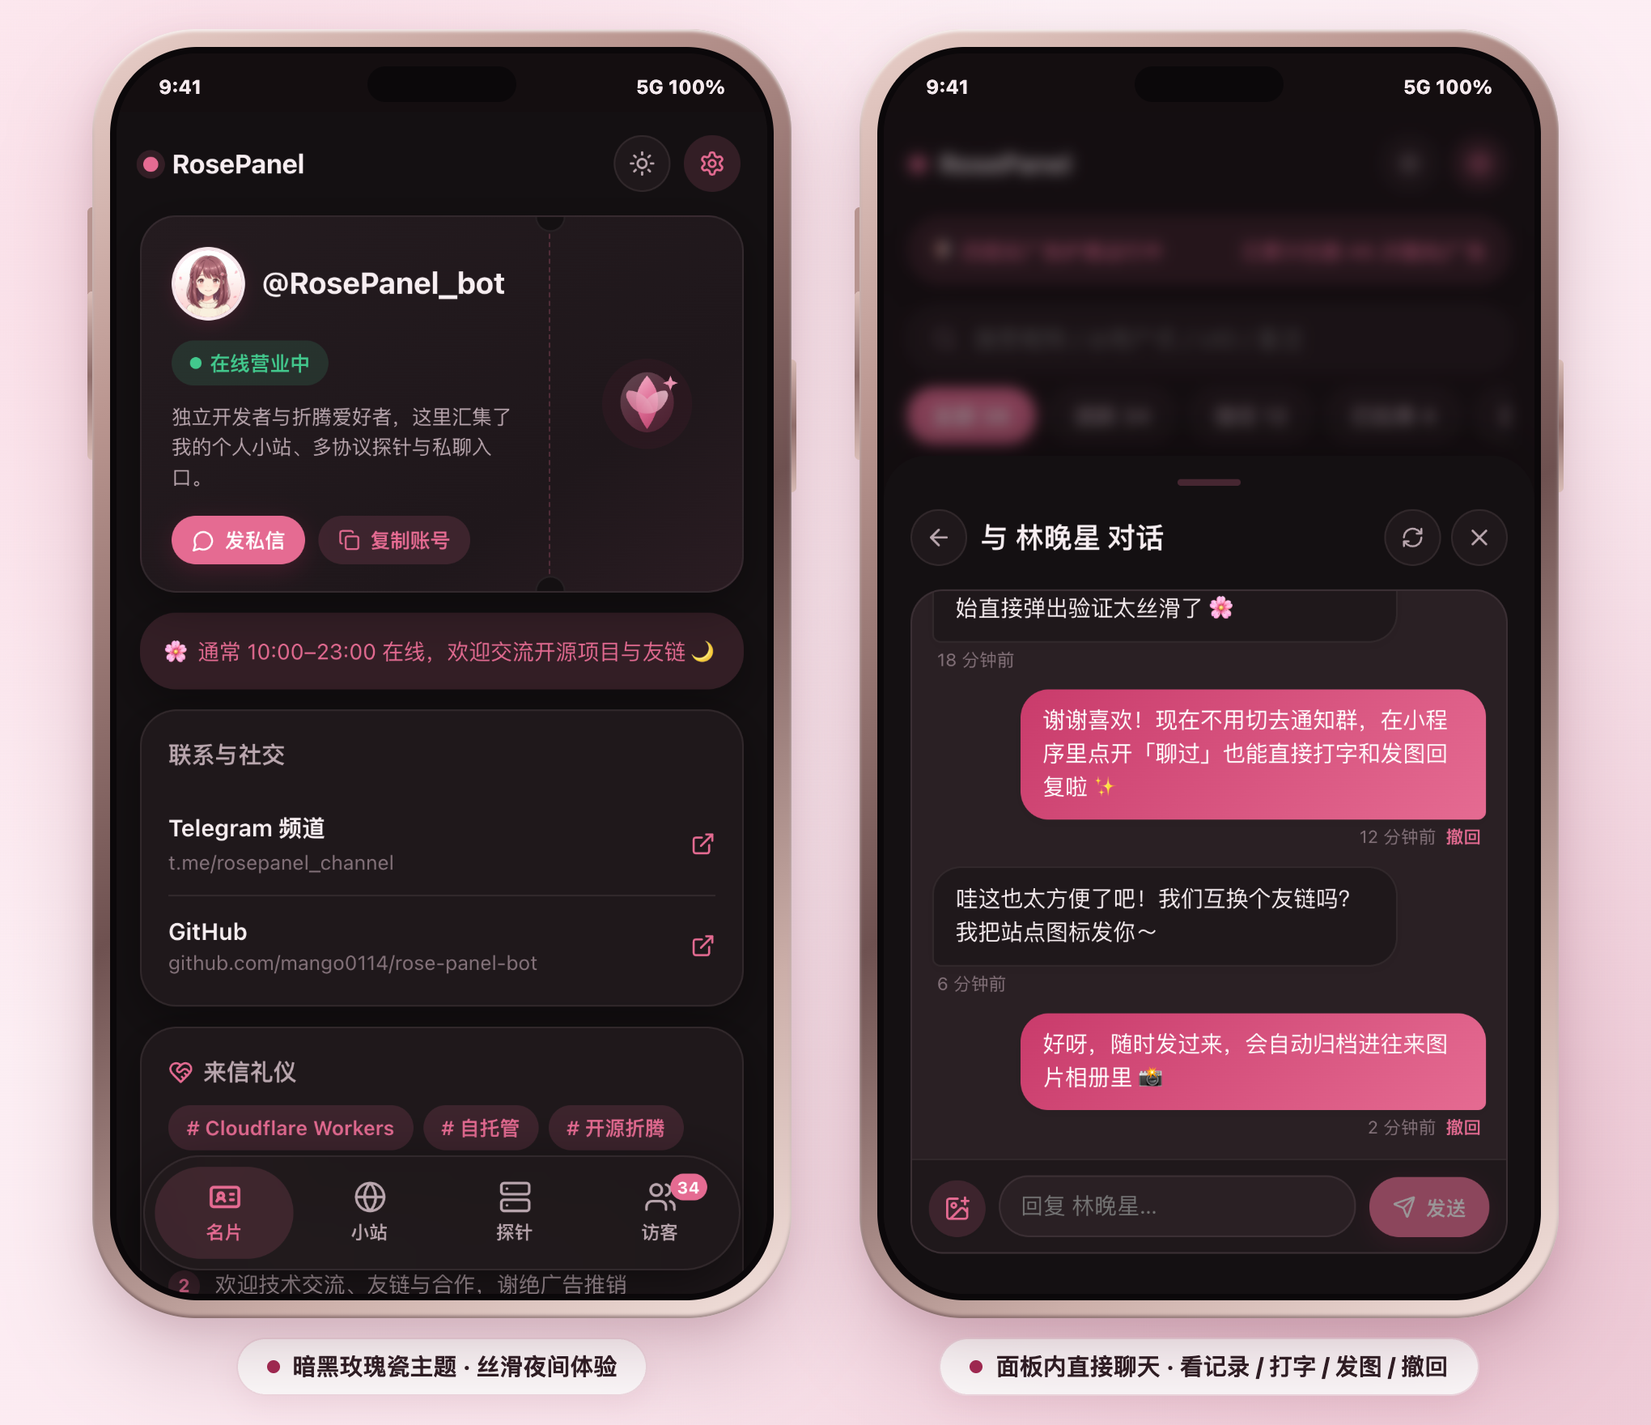
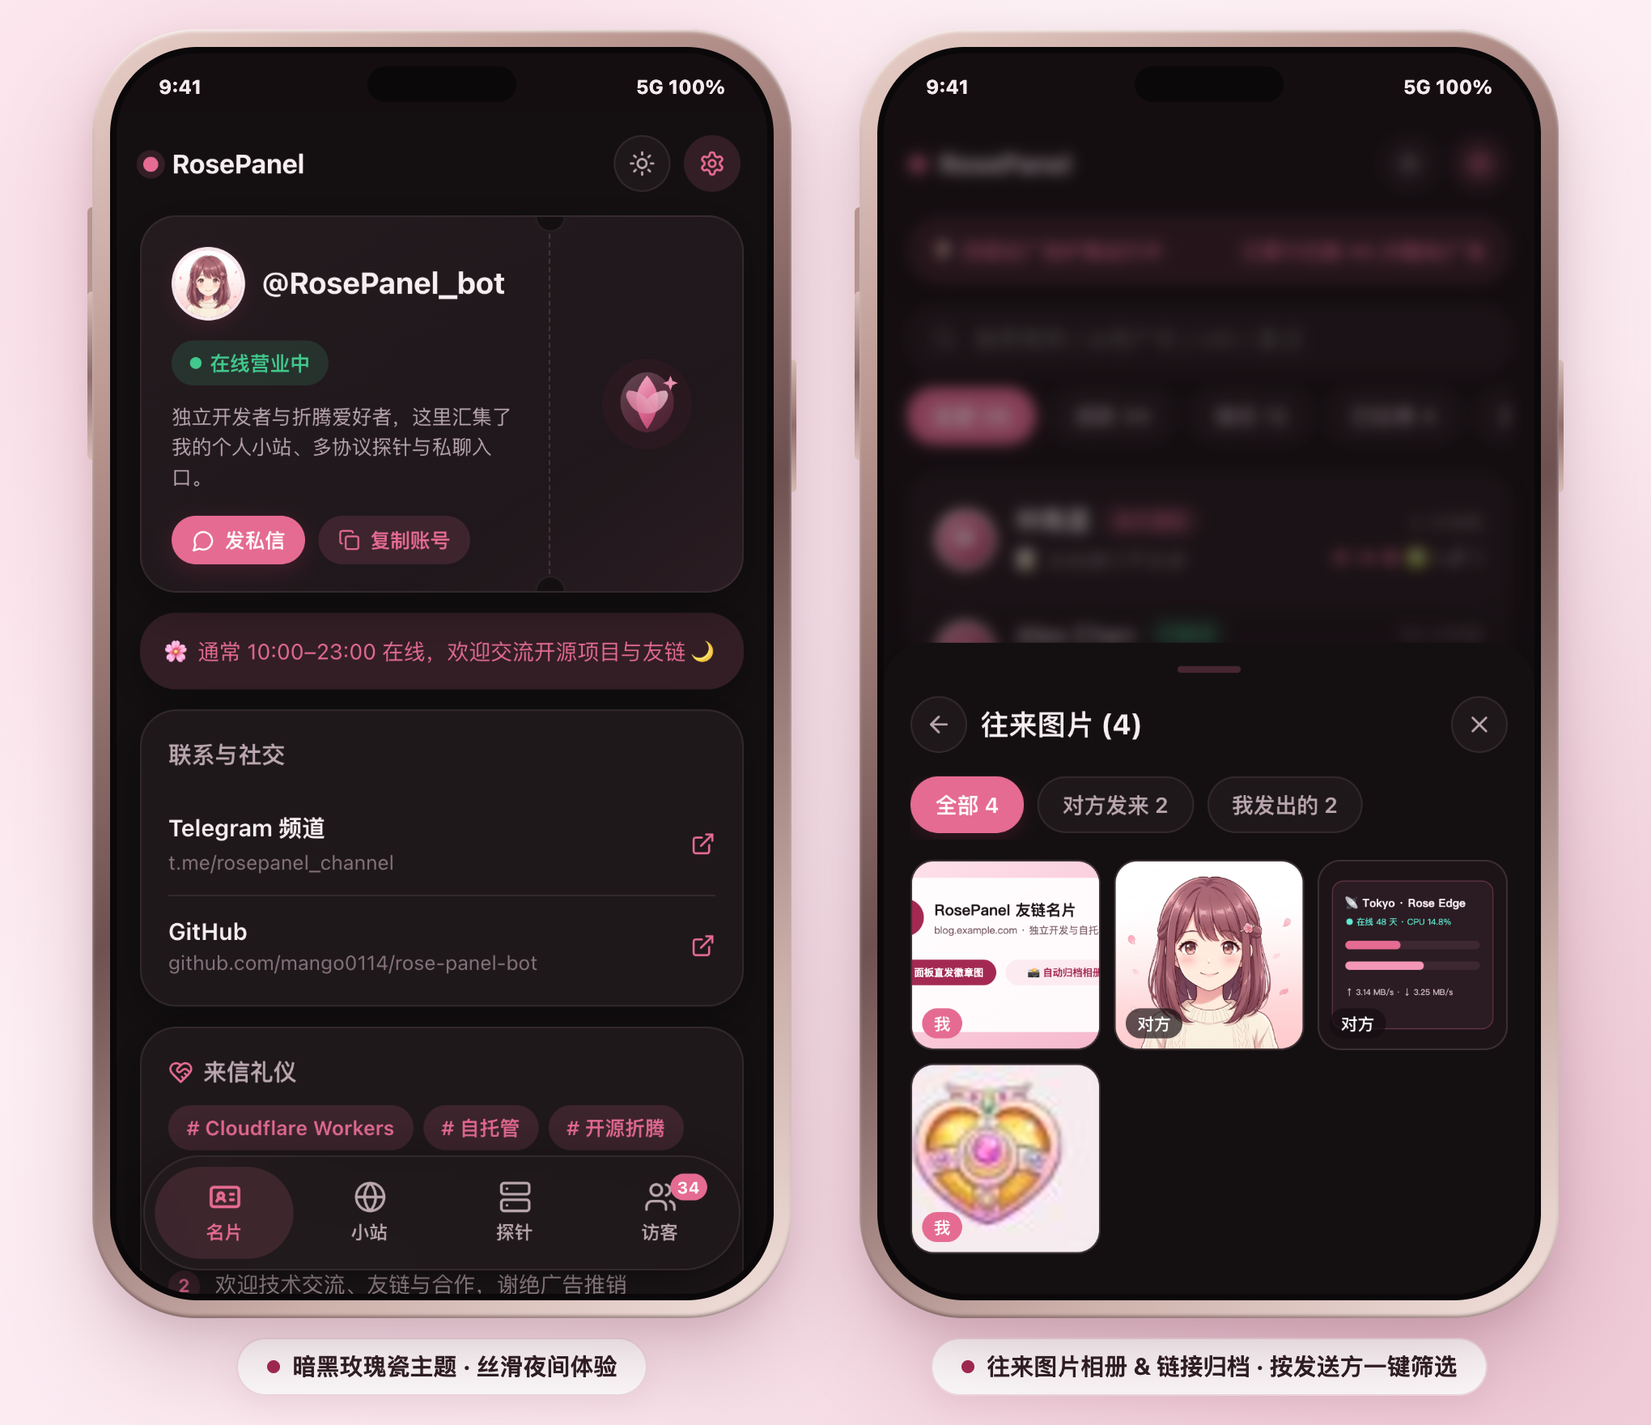
docs(v1.6.0): add #1 showcase-chat.png with photo bubble & media archive and promote in-panel chat to top

Changed region(s): [[0.525, 0.3125, 0.9265, 0.9062], [0.5559, 0.9375, 0.8956, 0.9688], [0.8029, 0.375, 0.8647, 0.4062]]

diff --git a/README.md b/README.md
@@ -51,9 +51,12 @@
 
 ---
 
-## 🎭 主打亮点：一键发静/动态贴纸设图形题、动态主徽章 & 站内版本更新
+## 💬 主打亮点：面板内直接聊天发图、动图验证题、动态徽章 & 站内热更新
 
 <div align="center">
+  <p><b>💬 面板内直接看记录、打字 / 发图回复与撤回 · 往来图片与链接自动分类归档</b></p>
+  <img src="docs/assets/showcase-chat.png" alt="访客资料卡聊天图片链接三合一与面板内直接打字发图聊天" width="96%" />
+  <br /><br />
   <p><b>🎭 私聊 <code>/add</code> 三秒录入贴纸验证题 · 陌生人点 Start 即验直通私聊</b></p>
   <img src="docs/assets/showcase-antispam.png" alt="一键发静/动态贴纸快捷设置图形验证题与防骚扰验证设置" width="96%" />
   <br /><br />
@@ -66,23 +69,26 @@
 
 ---
 
-## 📱 四大菜单超清实机画廊（名片 · 小站 · 探针 · 面板直聊）
+## 📱 四大菜单超清实机画廊（名片 · 小站 · 探针 · 相册归档）
 
 <div align="center">
   <p><b>🪪 1 · 玫瑰瓷个人名片与一键发私信　｜　🌐 2 · 公开 / 私密双层个人小站</b></p>
   <img src="docs/assets/preview-row1.png" alt="1 名片与来信礼仪 · 2 公开与私密双层小站" width="96%" />
   <br /><br />
-  <p><b>📡 3 · 多合一节点探针（Komari / 哪吒 / NodeGet / JSON）　｜　🛡 4 · 四层防广告护盾与访客归档</b></p>
+  <p><b>📡 3 · 多合一节点探针（Komari / 哪吒 / NodeGet / JSON）　｜　🛡 4 · 四层防广告护盾与访客列表</b></p>
   <img src="docs/assets/preview-row2.png" alt="3 多合一节点探针（Komari / 哪吒 / NodeGet / JSON） · 4 访客与四层防广告管理" width="96%" />
   <br /><br />
-  <p><b>🌙 暗黑玫瑰瓷主题　｜　💬 面板内点开「聊过」直接看记录、打字 / 发图回复与一键撤回</b></p>
-  <img src="docs/assets/preview-row3.png" alt="暗黑玫瑰瓷主题 · 面板内直接看记录与打字发图聊天" width="96%" />
+  <p><b>🌙 暗黑玫瑰瓷主题　｜　🖼 往来图片相册与链接清单（按「对方发来 / 我发出的」自动归档）</b></p>
+  <img src="docs/assets/preview-row3.png" alt="暗黑玫瑰瓷主题 · 往来图片相册与链接分类归档" width="96%" />
 </div>
 
 ---
 
 ## ✨ 核心功能一览
 
+- **💬 面板内直接打字 / 发图聊天 + 往来图片与链接归档 + 群内 `/bind` 收件箱**
+  - **小程序内直接聊天**：点开任意访客资料卡的 **「💬 聊过」** 即可查看最近 60 条双向对话气泡，支持**直接在面板内打字、从相册选图发送、一键撤回消息**，所有回复会自动静默抄送至通知群对应话题，两边随时无缝接力；
+  - **往来媒体自动归档 & 一键绑群**：双方发送的图片（HMAC 签名私密代理 + 灯箱）与网址链接自动按「对方发来 / 我发出的」分类归档；私密话题群发一句 **`/bind`** 即可完成绑定（免查 `-100...` 群 ID），支持话题内 `/del` 撤回私聊、备注、拉黑/一键解封/永久信任与清空记录。
 - **🎭 一键发送静 / 动态贴纸，快捷设置图形验证题**
   - 私聊机器人发 `/add` 再直接丢一张你收藏的静态/动态贴纸 + 空格输入选项，3 秒生成专属看图选择题；也支持在小程序内拉取贴纸包直接点选出题，真人一眼秒过，大幅提高自动化广告脚本的绕过成本。
 - **🛡 四层智能防广告护盾（毫秒级零卡顿）**
@@ -94,15 +100,12 @@
   - Worker 边缘 HTML 注入开屏配置（支持 **徽章呼吸 / 表情跳动 / 卡片骨架屏** 3 种风格）+ 前端本地秒开缓存 + 站长概览单键缓存（KV 消耗降 50 倍），并自动同步 Telegram 原生深浅色顶栏；
   - 私聊发 `/set` 直接发静态 `.webp` / 动态视频 `.webm` / 60fps 矢量 `.tgs` 贴纸或自定义表情，秒换名片主徽章并自动存入收藏徽章库；名片头像支持 **🤖 机器人头像（默认隐藏主号）/ 👤 站长 TG 头像隐匿代理 / 🖼 自定义直链** 3 选 1，右侧票根文案支持自由编辑与留空隐藏；
   - 站长首屏底部附带 **仅自己可见的「站长速览」**（已拦截广告数、活跃访客数、最近联系快捷直达），内置 **站内版本检查与可选 Fork 一键同步**，并支持一键开启 **群签到积分与徽章系统**。
-- **🌐 公开 / 私密双层个人小站 & 📡 多协议节点探针**
+- **🌐 公开 / 私密双层个人小站 & 📡 多协议节点探针（按需安装）**
   - 小站支持分类、搜索、排序与单条一键切换 **「公开 / 🔒 仅我可见」**（私密站点服务端严格剔除，访客不可见）；
   - 探针采用可插拔架构，内置 **Komari (v2/v1)**、**哪吒探针 (v1 公开 WS / v1 REST / v0)**、**NodeGet (NodeSeek 官方探针)** 与 **通用 JSON 探针**（极简/CF/ServerStatus 等），内置「测试探针连接」、重定向循环保护、15 秒边缘缓存与 **「仅自己可见」** 隐私开关，不点进探针 Tab 零额外请求。
 - **🤖 丝滑进门引导、免会员自动回复 & 关键词秒回**
   - **进门即验 · 直通私聊**：保存欢迎语自动同步至 Telegram 未点开始前的顶部介绍框；陌生人点 `/start`（或在名片点「发私信」）直接弹出人机验证，通过后即可直接打字留言；支持自由调节免验证天数（1–3650 天）与一键显隐左下角「个人面板」菜单按钮（免重跑 `/setup`）；
   - **收到消息自动回复 & 关键词秒回（最多 50 条）**：自定义忙碌回执 + 单访客冷却防刷屏；关键词支持包含/精确匹配与「转发站长 / 静默直回」，严格在验证通过后触发。
-- **💬 面板内直接打字 / 发图聊天 + 群内 `/bind` 话题收件箱**
-  - **小程序内直接聊天**：点开任意访客资料卡的 **「💬 聊过」** 即可查看最近 60 条双向对话气泡，支持**直接在面板内打字、从相册选图发送、一键撤回消息**，所有回复会自动静默抄送至通知群对应话题，两边随时无缝接力；
-  - 新建开启「话题 (Topics)」的私密群、把机器人设为管理员后发一句 **`/bind`** 即可完成绑定（免查 `-100...` 群 ID）；支持话题内 `/del` 回复撤回私聊、访客资料卡昵称直达、往来图片相册与链接归档、备注、拉黑/永久信任/结单及清空记录。
 
 ---
 

diff --git a/README_ZH_TW.md b/README_ZH_TW.md
@@ -52,9 +52,12 @@
 
 ---
 
-## 🎭 主打亮點：一鍵傳靜/動態貼圖設圖形題、動態主徽章 & 站內版本更新
+## 💬 主打亮點：面板內直接聊天傳圖、動圖驗證題、動態徽章 & 站內熱更新
 
 <div align="center">
+  <p><b>💬 面板內直接看紀錄、打字 / 傳圖回覆與收回 · 往來圖片與連結自動分類歸檔</b></p>
+  <img src="docs/assets/showcase-chat.png" alt="訪客資料卡聊天圖片連結三合一與面板內直接打字傳圖聊天" width="96%" />
+  <br /><br />
   <p><b>🎭 私訊 <code>/add</code> 三秒收錄貼圖驗證題 · 陌生人點 Start 即驗直通私訊</b></p>
   <img src="docs/assets/showcase-antispam.png" alt="一鍵傳靜/動態貼圖快捷設定圖形驗證題與防騷擾驗證設定" width="96%" />
   <br /><br />
@@ -67,23 +70,26 @@
 
 ---
 
-## 📱 四大選單超清實機畫廊（名片 · 小站 · 探針 · 面板直聊）
+## 📱 四大選單超清實機畫廊（名片 · 小站 · 探針 · 相簿歸檔）
 
 <div align="center">
   <p><b>🪪 1 · 玫瑰瓷個人名片與一鍵發私訊　｜　🌐 2 · 公開 / 私密雙層個人小站</b></p>
   <img src="docs/assets/preview-row1.png" alt="1 名片與來信禮儀 · 2 公開與私密雙層小站" width="96%" />
   <br /><br />
-  <p><b>📡 3 · 多合一節點探針（Komari / 哪吒 / NodeGet / JSON）　｜　🛡 4 · 四層防廣告護盾與訪客歸檔</b></p>
+  <p><b>📡 3 · 多合一節點探針（Komari / 哪吒 / NodeGet / JSON）　｜　🛡 4 · 四層防廣告護盾與訪客列表</b></p>
   <img src="docs/assets/preview-row2.png" alt="3 多合一節點探針（Komari / 哪吒 / NodeGet / JSON） · 4 訪客與四層防廣告管理" width="96%" />
   <br /><br />
-  <p><b>🌙 暗黑玫瑰瓷主題　｜　💬 面板內點開「聊過」直接看紀錄、打字 / 傳圖回覆與一鍵撤回</b></p>
-  <img src="docs/assets/preview-row3.png" alt="暗黑玫瑰瓷主題 · 面板內直接看紀錄與打字傳圖聊天" width="96%" />
+  <p><b>🌙 暗黑玫瑰瓷主題　｜　🖼 往來圖片相簿與連結清單（按「對方發來 / 我發出的」自動歸檔）</b></p>
+  <img src="docs/assets/preview-row3.png" alt="暗黑玫瑰瓷主題 · 往來圖片相簿與連結分類歸檔" width="96%" />
 </div>
 
 ---
 
 ## ✨ 核心功能一覽
 
+- **💬 面板內直接打字 / 傳圖聊天 + 往來圖片與連結歸檔 + 群內 `/bind` 收件匣**
+  - **Mini App 內直接聊天**：點開任意訪客資料卡的 **「💬 聊過」** 即可查看最近 60 條雙向對話氣泡，支援**直接在面板內打字、從相簿選圖傳送、一鍵撤回訊息**，所有回覆會自動靜默抄送至通知群對應主題，兩邊隨時無縫接力；
+  - **往來媒體自動歸檔 & 一鍵綁群**：雙方傳送的圖片（HMAC 簽章私密代理 + 燈箱）與網址連結自動按「對方發來 / 我發出的」分類歸檔；私密主題群傳一句 **`/bind`** 即可完成綁定（免查 `-100...` 群組 ID），支援主題內 `/del` 撤回私訊、備註、封鎖/一鍵解封/永久信任與清空紀錄。
 - **🎭 一鍵傳送靜 / 動態貼圖，快捷設定圖形驗證題**
   - 私訊機器人傳 `/add` 再直接丟一張你收藏的靜態/動態貼圖 + 空格輸入選項，3 秒產生專屬看圖選擇題；也支援在 Mini App 內載入貼圖包直接點選出題，真人一眼秒過，大幅提高自動化廣告腳本的繞過成本。
 - **🛡 四層智慧防廣告護盾（毫秒級零卡頓）**
@@ -95,15 +101,12 @@
   - Worker 邊緣 HTML 注入開屏設定（支援 **徽章呼吸 / 表情跳動 / 卡片骨架屏** 3 種風格）+ 前端本地秒開快取 + 站長概覽單鍵快取（KV 消耗降 50 倍），並自動同步 Telegram 原生深淺色頂欄；
   - 私訊傳 `/set` 直接傳靜態 `.webp` / 動態影片 `.webm` / 60fps 向量 `.tgs` 貼圖或自訂表情，秒換名片主徽章並自動存入收藏徽章庫；名片頭像支援 **🤖 機器人頭像（預設隱藏主號）/ 👤 站長 TG 頭像隱匿代理 / 🖼 自訂直連** 3 選 1，右側票根文案支援自由編輯與留空隱藏；
   - 站長首屏底部附帶 **僅自己可見的「站長速覽」**（已攔截廣告數、活躍訪客數、最近聯繫快捷直達），內建 **站內版本檢查與可選 Fork 一鍵同步**，並支援一鍵開啟 **群組簽到積分與徽章系統**。
-- **🌐 公開 / 私密雙層個人小站 & 📡 多協定節點探針**
+- **🌐 公開 / 私密雙層個人小站 & 📡 多協定節點探針（按需安裝）**
   - 小站支援分類、搜尋、排序與單筆一鍵切換 **「公開 / 🔒 僅我可見」**（私密站點伺服器端嚴格剔除，訪客不可見）；
   - 探針採可插拔架構，內建 **Komari (v2/v1)**、**哪吒探針 (v1 公開 WS / v1 REST / v0)**、**NodeGet (NodeSeek 官方探針)** 與 **通用 JSON 探針**（極簡/CF/ServerStatus 等），內建「測試探針連線」、重新導向循環保護、15 秒邊緣快取與 **「僅自己可見」** 隱私開關。
 - **🤖 絲滑進門引導、免會員自動回覆 & 關鍵字秒回**
   - **進門即驗 · 直通私訊**：儲存歡迎語自動同步至 Telegram 未點開始前的頂部介紹框；陌生人點 `/start`（或在名片點「發私訊」）直接彈出人機驗證，通過後即可直接打字留言；支援自由調節免驗證天數（1–3650 天）與一鍵顯隱左下角「個人面板」選單按鈕（免重跑 `/setup`）；
   - **收到訊息自動回覆 & 關鍵字秒回（最多 50 條）**：自訂忙碌回執 + 單訪客冷卻防洗版；關鍵字支援包含/精確比對與「轉發站長 / 靜默直回」，嚴格在驗證通過後觸發。
-- **💬 面板內直接打字 / 傳圖聊天 + 群內 `/bind` 主題收件匣**
-  - **Mini App 內直接聊天**：點開任意訪客資料卡的 **「💬 聊過」** 即可查看最近 60 條雙向對話氣泡，支援**直接在面板內打字、從相簿選圖傳送、一鍵撤回訊息**，所有回覆會自動靜默抄送至通知群對應主題，兩邊隨時無縫接力；
-  - 新建開啟「主題 (Topics)」的私密群組、將機器人設為管理員後傳一句 **`/bind`** 即可完成綁定（免查 `-100...` 群組 ID）；支援主題內 `/del` 回覆撤回私訊、訪客資料卡暱稱直達、往來圖片相簿與連結歸檔、備註、封鎖/永久信任/結單及清空紀錄。
 
 ---
 

diff --git a/README_EN.md b/README_EN.md
@@ -48,9 +48,12 @@
 
 ---
 
-## 🎭 Signature Features: Custom Sticker Quizzes, Animated Emblems & In-App Updates
+## 💬 Signature Features: In-Panel Direct Chat, Sticker Quizzes, Emblems & In-App Updates
 
 <div align="center">
+  <p><b>💬 Direct In-Panel Chat, Photo Replies & Recall · Automatic Photo & Link Archive</b></p>
+  <img src="docs/assets/showcase-chat.png" alt="Visitor profile hub with chat, photos, links and direct in-panel text/photo replies" width="96%" />
+  <br /><br />
   <p><b>🎭 3-Second Sticker Quizzes via <code>/add</code> · Instant <code>/start</code> Verification</b></p>
   <img src="docs/assets/showcase-antispam.png" alt="Send any static or animated TG sticker via /add to create custom visual anti-spam quizzes" width="96%" />
   <br /><br />
@@ -63,23 +66,26 @@
 
 ---
 
-## 📱 4-Tab Retina Mini App Gallery (Card · Sites · Probe · In-Panel Chat)
+## 📱 4-Tab Retina Mini App Gallery (Card · Sites · Probe · Media Archive)
 
 <div align="center">
   <p><b>🪪 1 · Personal Card & Direct PM Wake-Up　｜　🌐 2 · Public & Private Dual-Layer Sites</b></p>
   <img src="docs/assets/preview-row1.png" alt="1 Personal Card & Contact Etiquette · 2 Public & Private Sites" width="96%" />
   <br /><br />
-  <p><b>📡 3 · Multi-Protocol Probe (Komari / Nezha / NodeGet / JSON)　｜　🛡 4 · 4-Layer Anti-Spam & Visitor Archive</b></p>
+  <p><b>📡 3 · Multi-Protocol Probe (Komari / Nezha / NodeGet / JSON)　｜　🛡 4 · 4-Layer Anti-Spam & Visitor List</b></p>
   <img src="docs/assets/preview-row2.png" alt="3 Multi-Protocol Server Probe (Komari / Nezha / NodeGet / JSON) · 4 Visitors & 4-Layer Anti-Spam Shield" width="96%" />
   <br /><br />
-  <p><b>🌙 Dark Rose-Obsidian Theme　｜　💬 In-Panel Direct Chat (Read Bubbles, Type Text, Send Photos & Recall)</b></p>
-  <img src="docs/assets/preview-row3.png" alt="Dark Rose-Obsidian Theme & In-Panel Visitor Chat Drawer" width="96%" />
+  <p><b>🌙 Dark Rose-Obsidian Theme　｜　🖼 Exchanged Photos Gallery & Link Archive (Filtered by Sender)</b></p>
+  <img src="docs/assets/preview-row3.png" alt="Dark Rose-Obsidian Theme & Exchanged Photos Gallery" width="96%" />
 </div>
 
 ---
 
 ## ✨ Key Features
 
+- **💬 In-Panel Direct Text/Photo Chat + Media Archive + `/bind` Forum Inbox**
+  - **Chat Right Inside the Mini App**: Tap **`💬 Chat`** on any visitor card to inspect the last 60 message bubbles, **type text or upload photos directly from the Mini App**, and **recall sent messages in 1 tap** — every reply silently mirrors to the visitor's Forum Topic so both surfaces stay in sync.
+  - **Automatic Photo & Link Archive**: Exchanged photos (HMAC-signed private proxy + lightbox) and links are automatically archived by sender (`Visitor` / `Me`); send **`/bind`** inside a private Topics group for 1-click inbox setup (no `-100...` ID lookup), with `/del` topic recall and 1-tap Ban/Unban/Trust.
 - **🎭 1-Tap Static/Animated Sticker Visual Quizzes (`/add`)**
   - Send `/add` to your bot, drop any static or animated Telegram sticker you love + space-separated choices, and create a custom visual quiz in 3 seconds — or pick directly from sticker packs inside Settings. Humans pass in 1 second while automated spam bots hit a wall.
 - **🛡 4-Layer Intelligent Anti-Spam Shield (Millisecond Edge Latency)**
@@ -91,15 +97,12 @@
   - Edge-injected customizable splash screen (`emblem` breathing halo / `emoji` bounce / `skeleton` shimmer) + local SWR cache + single-key admin overview cache (50× fewer KV reads) + automatic Telegram native dark/light chrome sync.
   - Send `/set` with any `.webp` / `.webm` / 60fps `.tgs` sticker or Custom Emoji to instantly update your main emblem; 3-way privacy card avatar (`bot` default / server-proxied `owner` TG avatar / `custom` URL) + fully editable & hideable ticket stub labels.
   - Admin-only **Owner Overview** card on the home tab, built-in **In-App Version Checker & optional 1-click Fork Sync**, plus optional 1-click **Group Check-in, Points & Badges System**.
-- **🌐 Public / Private Site Directory & 📡 Pluggable Server Probe**
+- **🌐 Public / Private Site Directory & 📡 Modular Multi-Protocol Probe**
   - Categories, search, drag-free reordering, and 1-tap **`Public` vs `🔒 Private`** visibility toggle (private sites are strictly omitted server-side for non-admins).
   - Pluggable probe registry supporting **Komari (v2/v1)**, **Nezha (v1 public WebSocket / v1 REST / v0 REST)**, **NodeGet (NodeSeek official probe)**, and **Generic JSON** probes, with built-in connection testing, redirect-loop protection, 15s edge caching, and **`🔒 Private (Admin Only)`** visibility toggle.
 - **🤖 Verification-First `/start`, Auto-Reply & Keyword Engine**
   - **Instant Onboarding**: Saving your welcome text auto-syncs Telegram's pre-Start intro box (`setMyDescription`); strangers tapping `/start` (or the card's PM button) immediately get a verification challenge and can type right after passing; configurable verification grace period (`1–3650` days) and live bottom-left menu button toggle without re-running `/setup`.
   - **Busy Auto-Reply & Keyword Rules (up to 50)**: Per-visitor KV cooldown receipts + case-insensitive **contains/exact** keyword rules (forward to admin or silent direct reply), strictly gated behind verification.
-- **💬 In-Panel Direct Text/Photo Chat + `/bind` Forum Topics Inbox**
-  - **Chat Right Inside the Mini App**: Tap **`💬 Chat`** on any visitor card to inspect the last 60 message bubbles, **type text or upload photos directly from the Mini App**, and **recall sent messages in 1 tap** — every reply silently mirrors to the visitor's Forum Topic so both surfaces stay in sync.
-  - Create a private Telegram group with **Topics** enabled, make the bot an admin, and send **`/bind`** — no `-100...` group ID lookup required! Includes `/del` topic recall, clickable visitor nicknames, signed private photo gallery, link archive, notes, and 1-tap Ban/Trust/Close.
 
 ---
 
